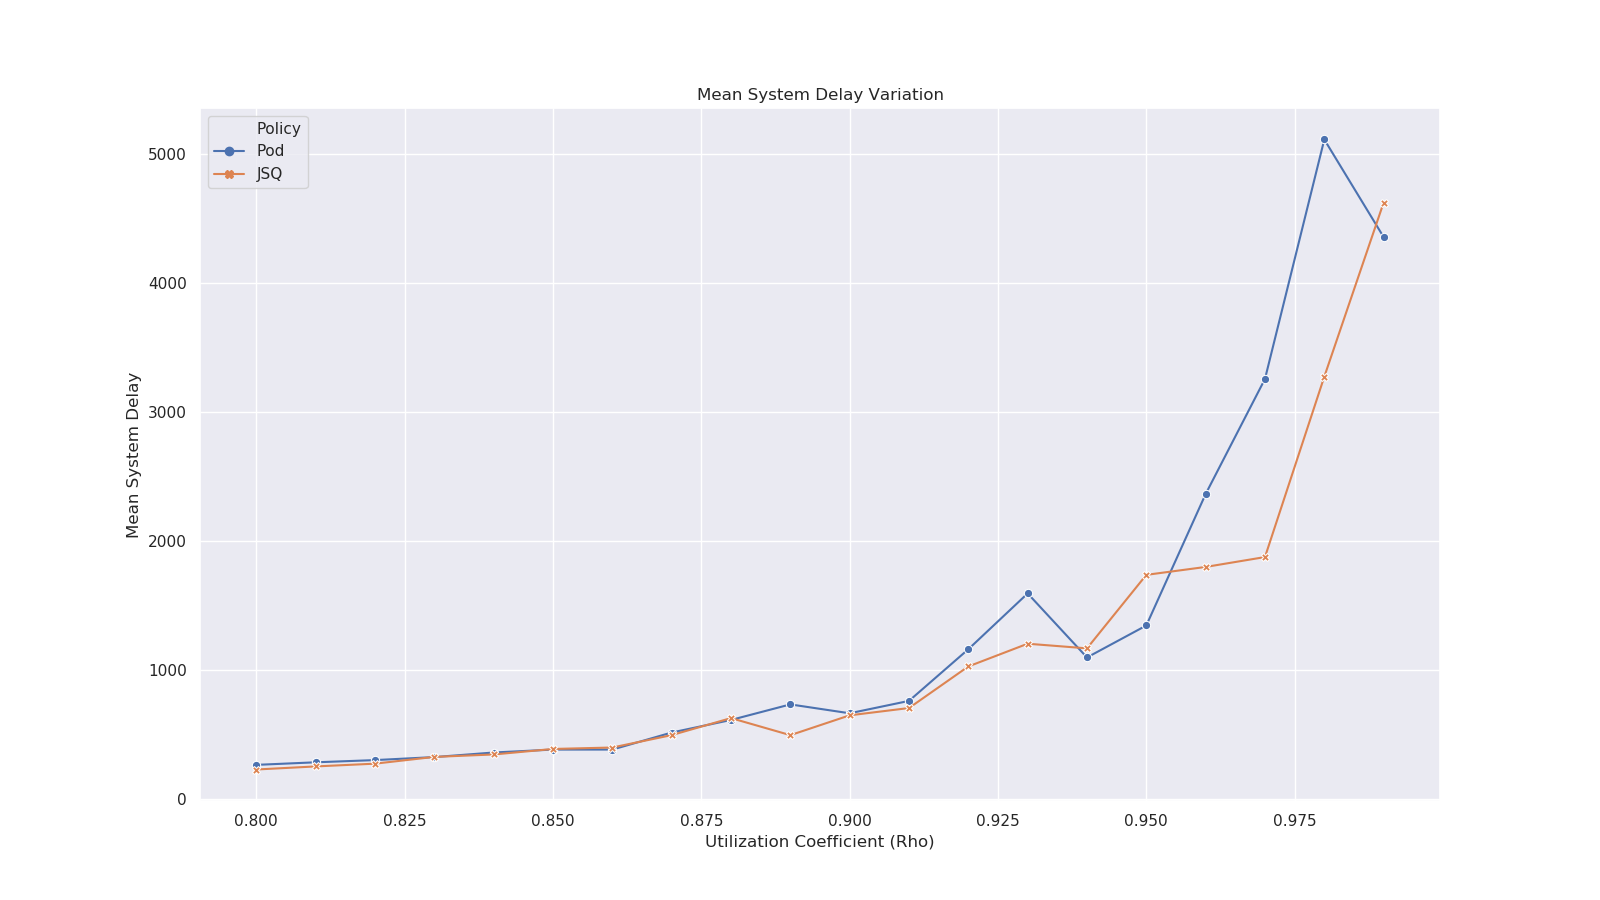
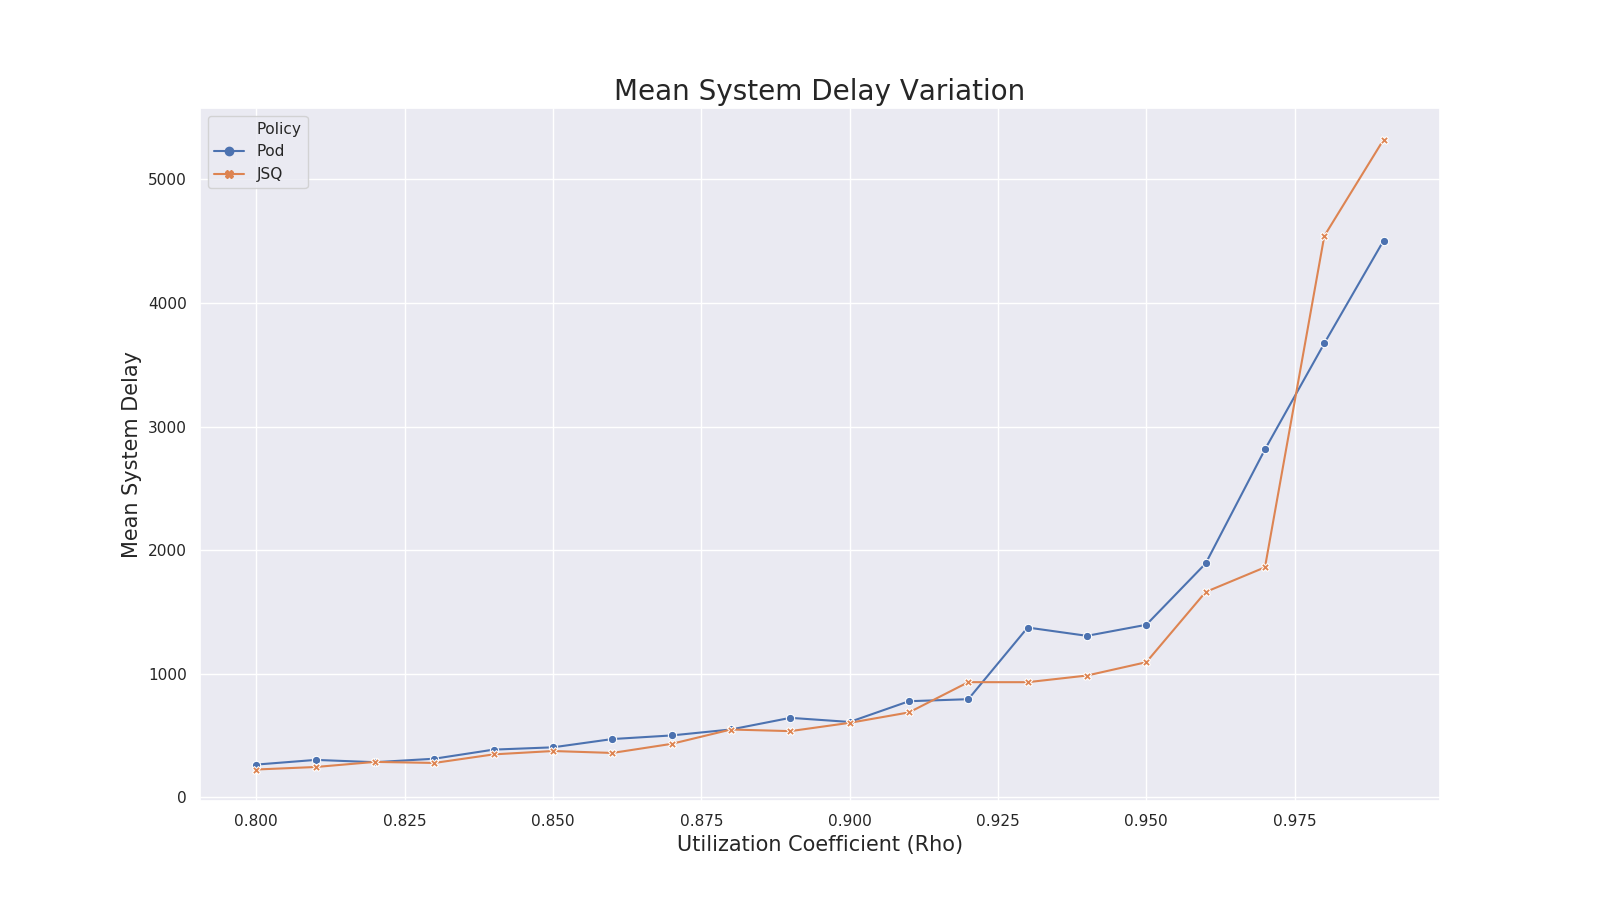
Remove old plot function

diff --git a/simulation_utils.py b/simulation_utils.py
@@ -12,28 +12,15 @@ def compute_interval_time_exp(t_0, q, y):
     return t_0 + (1-q)*y
 
 
-def plot2(x, y1, y2, d, title, xlabel, ylabel, path):
-    plt.plot(x, y1, label=('Pod-' + str(d)))
-    plt.scatter(x, y1, c='r')
-    plt.plot(x, y2, label='JSQ')
-    plt.scatter(x, y2, c='r')
-    plt.xticks(x)
-    plt.title(title)
-    plt.xlabel(xlabel)
-    plt.ylabel(xlabel)
-    plt.legend()
-    plt.savefig(path)
-    plt.show()
-
-
 def plot(df, d, title, xlabel, ylabel, path):
     plt.figure(figsize=(16, 9))
     sns.set(style='darkgrid',)
     sns.lineplot(x='Rho', y=ylabel, data=df,
                  hue='Policy', style='Policy',
                  markers=True, dashes=False)
-    plt.title(title)
-    plt.xlabel(xlabel)
+    plt.title(title, fontsize=20)
+    plt.xlabel(xlabel, fontsize=15)
+    plt.ylabel(ylabel, fontsize=15)
     plt.savefig(path)
     plt.show()
 
